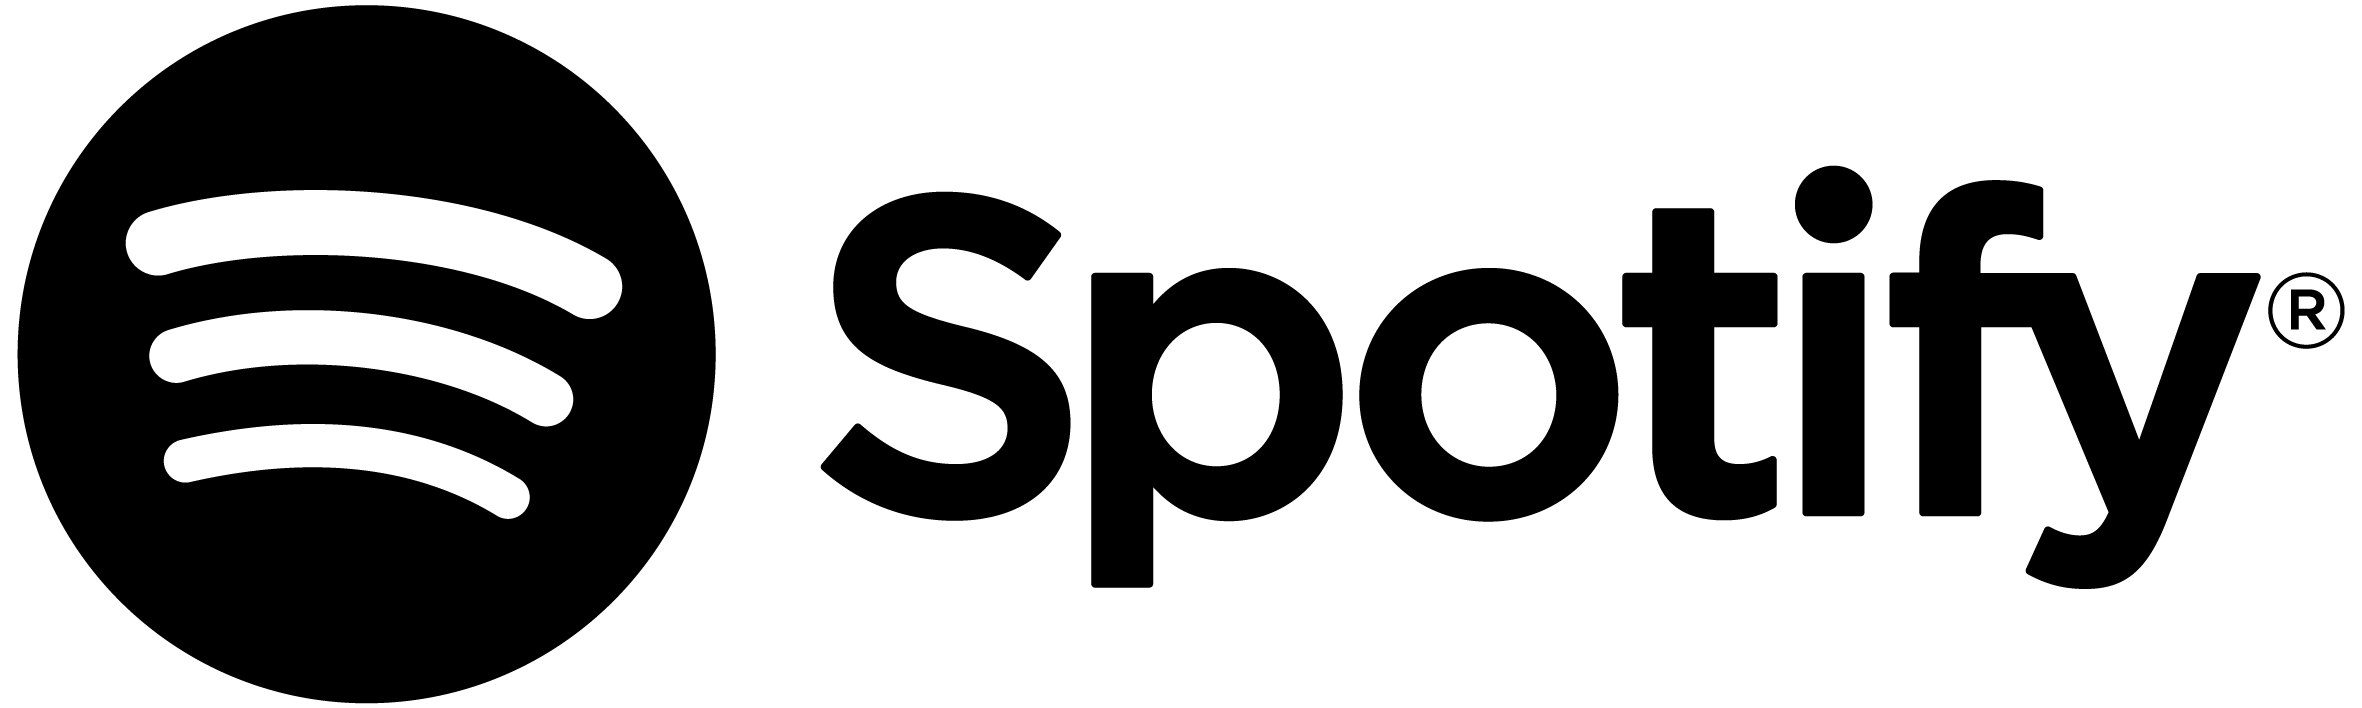
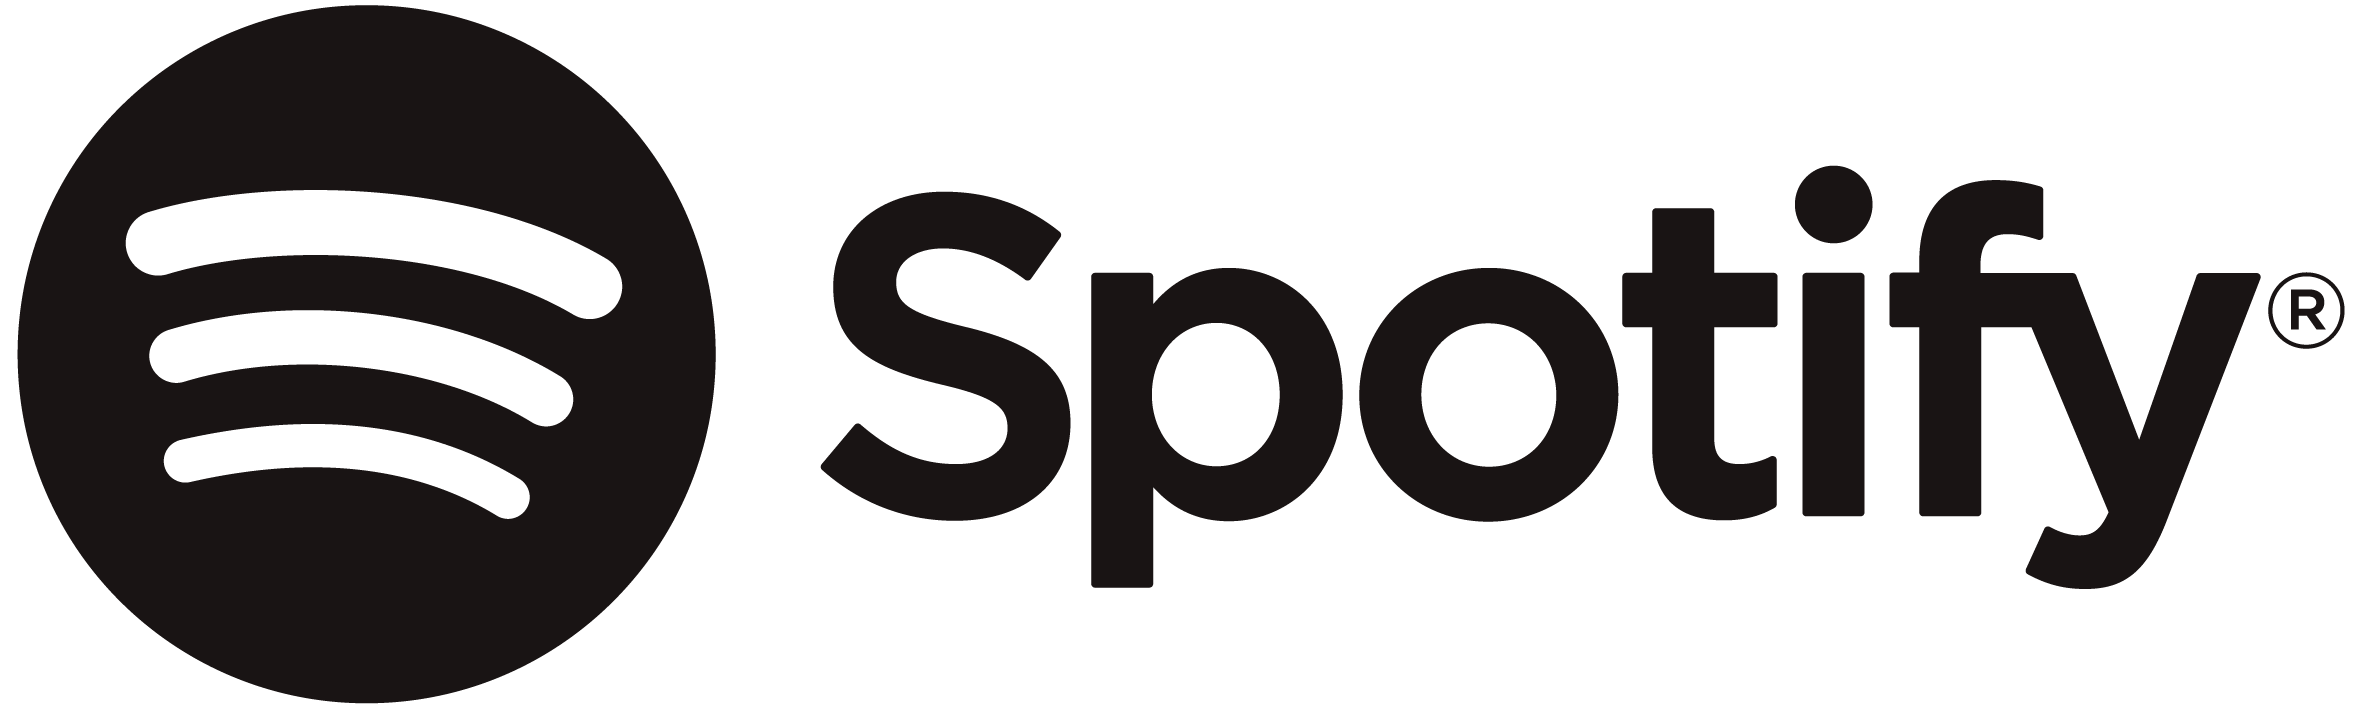
update

diff --git a/finalHomePage.html b/finalHomePage.html
@@ -578,13 +578,13 @@
 
                         </div>
                         <div class="d-flex">
-                            <div class="good-morning-card ml-3 mt-4 mb-3">
+                            <div class="good-morning-card ml-3 mt-4 mb-3 ">
                                 <div class="row no-gutters">
                                     <div class="col-3">
                                         <img src="https://i.scdn.co/image/ab67616d0000b2735218a8028e73b7fd7d785514"
                                             style="border-radius: 4px" width="80" />
                                     </div>
-                                    <div class="col-6 ml-4">
+                                    <div class="col-6 ml-5">
                                         <div class="card-body">
                                             <h6 class="card-title text-white">
                                                 Burning Jazz-rock Fusion
@@ -600,7 +600,22 @@
                                         <img src="https://i.scdn.co/image/ab67616d0000b2735218a8028e73b7fd7d785514"
                                             style="border-radius: 4px" width="80" />
                                     </div>
-                                    <div class="col-6 ml-4">
+                                    <div class="col-6 ml-5">
+                                        <div class="card-body">
+                                            <h6 class="card-title text-white">
+                                                Burning Jazz-rock Fusion
+                                            </h6>
+                                        </div>
+                                    </div>
+                                </div>
+                            </div>
+                            <div class="good-morning-card ml-3 mt-4 mb-3 ">
+                                <div class="row no-gutters">
+                                    <div class="col-3">
+                                        <img src="https://i.scdn.co/image/ab67616d0000b2735218a8028e73b7fd7d785514"
+                                            style="border-radius: 4px" width="80" />
+                                    </div>
+                                    <div class="col-6 ml-5">
                                         <div class="card-body">
                                             <h6 class="card-title text-white">
                                                 Burning Jazz-rock Fusion
@@ -616,7 +631,7 @@
                                         <img src="https://i.scdn.co/image/ab67616d0000b2735218a8028e73b7fd7d785514"
                                             style="border-radius: 4px" width="80" />
                                     </div>
-                                    <div class="col-6 ml-4">
+                                    <div class="col-6 ml-5">
                                         <div class="card-body">
                                             <h6 class="card-title text-white">
                                                 Burning Jazz-rock Fusion
@@ -625,48 +640,18 @@
                                     </div>
                                 </div>
                             </div>
+                            
 
-                            <div class="good-morning-card ml-4 mt-4 mb-3">
-                                <div class="row no-gutters">
-                                    <div class="col-3">
-                                        <img src="https://i.scdn.co/image/ab67616d0000b2735218a8028e73b7fd7d785514"
-                                            style="border-radius: 4px" width="80" />
-                                    </div>
-                                    <div class="col-6 ml-4">
-                                        <div class="card-body">
-                                            <h6 class="card-title text-white">
-                                                Burning Jazz-rock Fusion
-                                            </h6>
-                                        </div>
-                                    </div>
-                                </div>
-                            </div>
-
-                            <div class="good-morning-card ml-4 mt-4 mb-3">
-                                <div class="row no-gutters">
-                                    <div class="col-3">
-                                        <img src="https://i.scdn.co/image/ab67616d0000b2735218a8028e73b7fd7d785514"
-                                            style="border-radius: 4px" width="80" />
-                                    </div>
-                                    <div class="col-6 ml-4">
-                                        <div class="card-body">
-                                            <h6 class="card-title text-white">
-                                                Burning Jazz-rock Fusion
-                                            </h6>
-                                        </div>
-                                    </div>
-                                </div>
-                            </div>
+                            
                         </div>
-
                         <div class="d-flex">
-                            <div class="good-morning-card ml-3 mt-4 mb-3">
+                            <div class="good-morning-card ml-3 mt-4 mb-3 ">
                                 <div class="row no-gutters">
                                     <div class="col-3">
                                         <img src="https://i.scdn.co/image/ab67616d0000b2735218a8028e73b7fd7d785514"
                                             style="border-radius: 4px" width="80" />
                                     </div>
-                                    <div class="col-6 ml-4">
+                                    <div class="col-6 ml-5">
                                         <div class="card-body">
                                             <h6 class="card-title text-white">
                                                 Burning Jazz-rock Fusion
@@ -682,7 +667,22 @@
                                         <img src="https://i.scdn.co/image/ab67616d0000b2735218a8028e73b7fd7d785514"
                                             style="border-radius: 4px" width="80" />
                                     </div>
-                                    <div class="col-6 ml-4">
+                                    <div class="col-6 ml-5">
+                                        <div class="card-body">
+                                            <h6 class="card-title text-white">
+                                                Burning Jazz-rock Fusion
+                                            </h6>
+                                        </div>
+                                    </div>
+                                </div>
+                            </div>
+                            <div class="good-morning-card ml-3 mt-4 mb-3 ">
+                                <div class="row no-gutters">
+                                    <div class="col-3">
+                                        <img src="https://i.scdn.co/image/ab67616d0000b2735218a8028e73b7fd7d785514"
+                                            style="border-radius: 4px" width="80" />
+                                    </div>
+                                    <div class="col-6 ml-5">
                                         <div class="card-body">
                                             <h6 class="card-title text-white">
                                                 Burning Jazz-rock Fusion
@@ -698,7 +698,7 @@
                                         <img src="https://i.scdn.co/image/ab67616d0000b2735218a8028e73b7fd7d785514"
                                             style="border-radius: 4px" width="80" />
                                     </div>
-                                    <div class="col-6 ml-4">
+                                    <div class="col-6 ml-5">
                                         <div class="card-body">
                                             <h6 class="card-title text-white">
                                                 Burning Jazz-rock Fusion
@@ -707,39 +707,12 @@
                                     </div>
                                 </div>
                             </div>
+                            
 
-                            <div class="good-morning-card ml-4 mt-4 mb-3">
-                                <div class="row no-gutters">
-                                    <div class="col-3">
-                                        <img src="https://i.scdn.co/image/ab67616d0000b2735218a8028e73b7fd7d785514"
-                                            style="border-radius: 4px" width="80" />
-                                    </div>
-                                    <div class="col-6 ml-4">
-                                        <div class="card-body">
-                                            <h6 class="card-title text-white">
-                                                Burning Jazz-rock Fusion
-                                            </h6>
-                                        </div>
-                                    </div>
-                                </div>
-                            </div>
-
-                            <div class="good-morning-card ml-4 mt-4 mb-3">
-                                <div class="row no-gutters">
-                                    <div class="col-3">
-                                        <img src="https://i.scdn.co/image/ab67616d0000b2735218a8028e73b7fd7d785514"
-                                            style="border-radius: 4px" width="80" />
-                                    </div>
-                                    <div class="col-6 ml-4">
-                                        <div class="card-body">
-                                            <h6 class="card-title text-white">
-                                                Burning Jazz-rock Fusion
-                                            </h6>
-                                        </div>
-                                    </div>
-                                </div>
-                            </div>
+                            
                         </div>
+
+                        
 
                         <h4 class="mt-3 mb-3 ml-1">Recently played</h4>
 

diff --git a/login.css b/login.css
@@ -5,21 +5,21 @@ body {
 
 nav {
     min-height: 6vh;
-    width: 100%;
+    /* width: 100%; */
     margin: 0;
 }
 
 .header-icon {
-    min-height: 80px;
-    margin-top: 10px;
-    margin-bottom: 5px;
+    width:  100%;
+    display: flex;
+    flex-direction: row;
+    justify-content: center;
 }
 
 .icon {
     /* position: absolute; */
-    margin-left: 40%;
-    margin-top: 7px;
-    height: 55px;
+    margin-top: 24px;
+    height: 65px;
 }
 
 .content {

diff --git a/login.html b/login.html
@@ -15,7 +15,7 @@
     <!-- <div class="nav"></div> -->
     <nav class="header">
         <div class='header-icon col-xs-12'>
-            <img class='icon' src="spotify.png"/>
+            <img class='icon' src="Spotify_Logo_CMYK_Black.png"/>
         </div>
     </nav>
 
